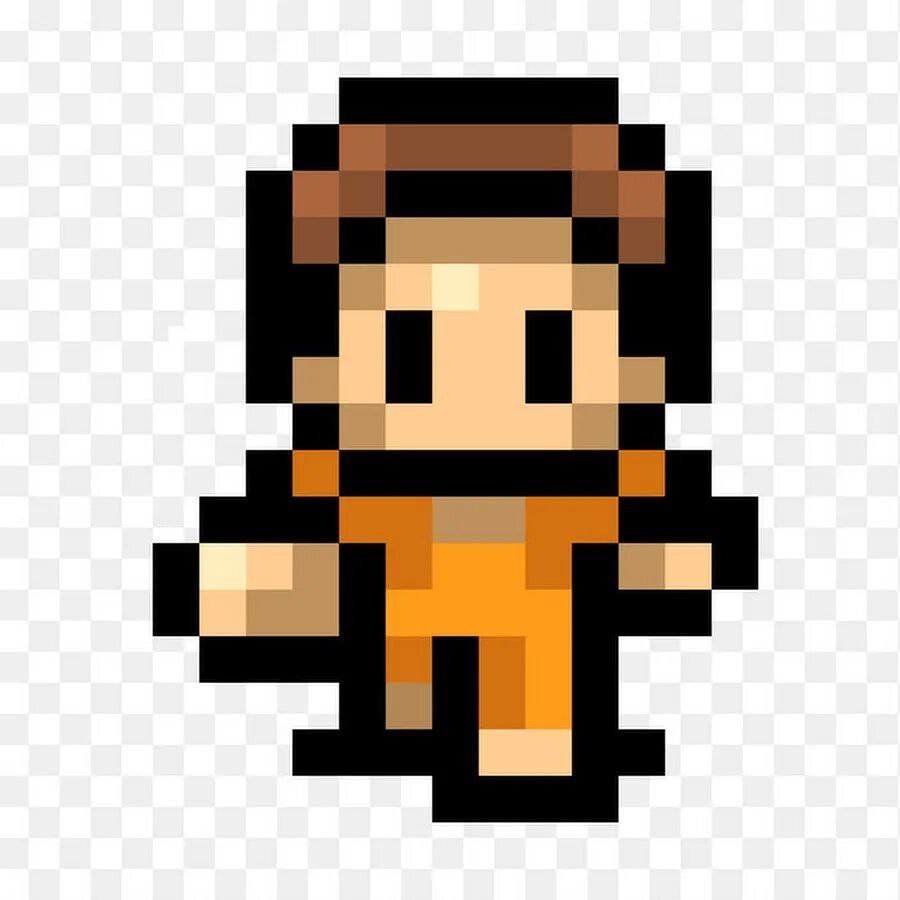
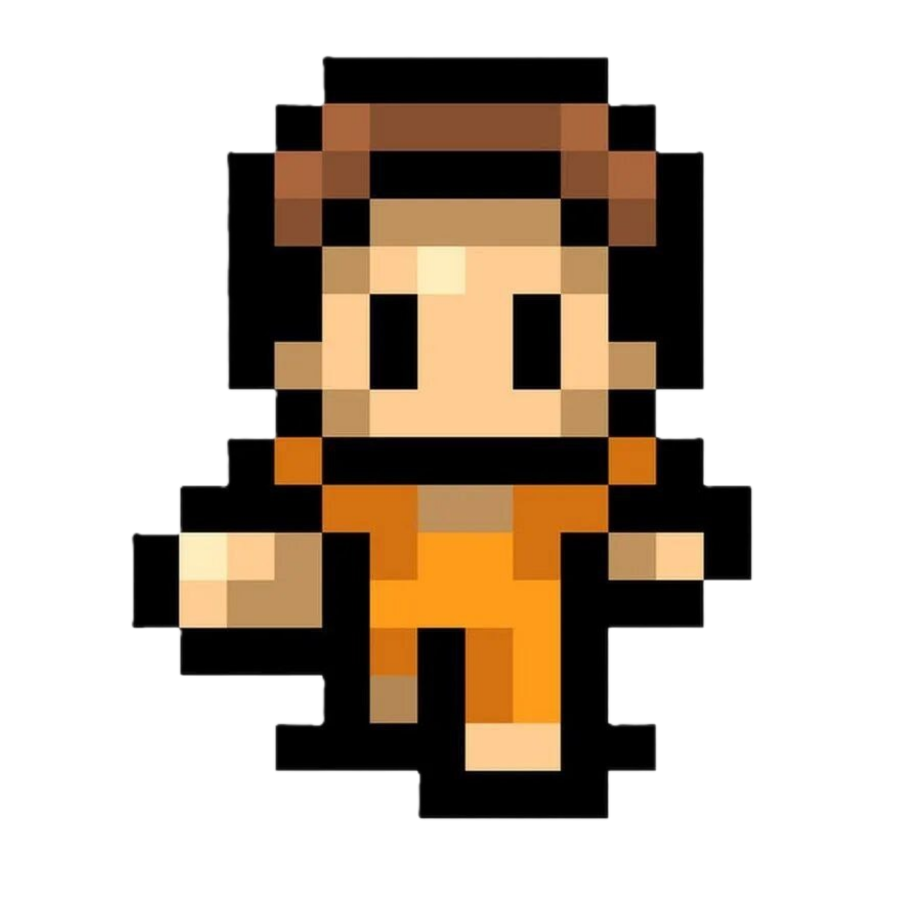
astral form 1 version

Changed region(s): [[0.1244, 0.0622, 0.8711, 0.9333]]

diff --git a/main.py b/main.py
@@ -10,10 +10,6 @@ SCREEN_TITLE = "Astral Escape"
 
 PLAYER_SPEED = 200
 
-BUSH_COUNT = 15
-BUSH_SCALE = 0.4
-BERRY_SCALE = 0.2
-
 
 class Player(arcade.Sprite):
     def __init__(self):
@@ -25,6 +21,9 @@ class Player(arcade.Sprite):
         self.change_y = 0
         self.texture_left = arcade.load_texture("images/player.png")
         self.texture_right = arcade.load_texture("images/player.png").flip_left_right()
+        self.astral_texture_left = arcade.load_texture("images/player_astral.png")
+        self.astral_texture_right = arcade.load_texture("images/player_astral.png").flip_left_right()
+        self.astral_form = False
 
     def update(self, delta_time):
         self.center_x += self.change_x * PLAYER_SPEED * delta_time
@@ -42,7 +41,6 @@ class Player(arcade.Sprite):
             self.top = SCREEN_HEIGHT
 
     def switch_form(self):
-        self.astral_form = False
         pass
 
 
@@ -68,10 +66,16 @@ class Astral_Escape(arcade.Window):
         self.player_list.draw()
 
     def on_update(self, delta_time):
-        if self.track:
-            self.player.texture = self.player.texture_left
+        if not self.player.astral_form:
+            if self.track:
+                self.player.texture = self.player.texture_left
+            else:
+                self.player.texture = self.player.texture_right
         else:
-            self.player.texture = self.player.texture_right
+            if self.track:
+                self.player.texture = self.player.astral_texture_left
+            else:
+                self.player.texture = self.player.astral_texture_right
         self.player.update(delta_time)
 
     def on_key_press(self, key, modifiers):
@@ -85,6 +89,11 @@ class Astral_Escape(arcade.Window):
         elif key == arcade.key.D:
             self.player.change_x = 1
             self.track = False
+        elif key == arcade.key.Q:
+            if self.player.astral_form:
+                self.player.astral_form = False
+            else:
+                self.player.astral_form = True
 
     def on_key_release(self, key, modifiers):
         if key == arcade.key.W or key == arcade.key.S:
